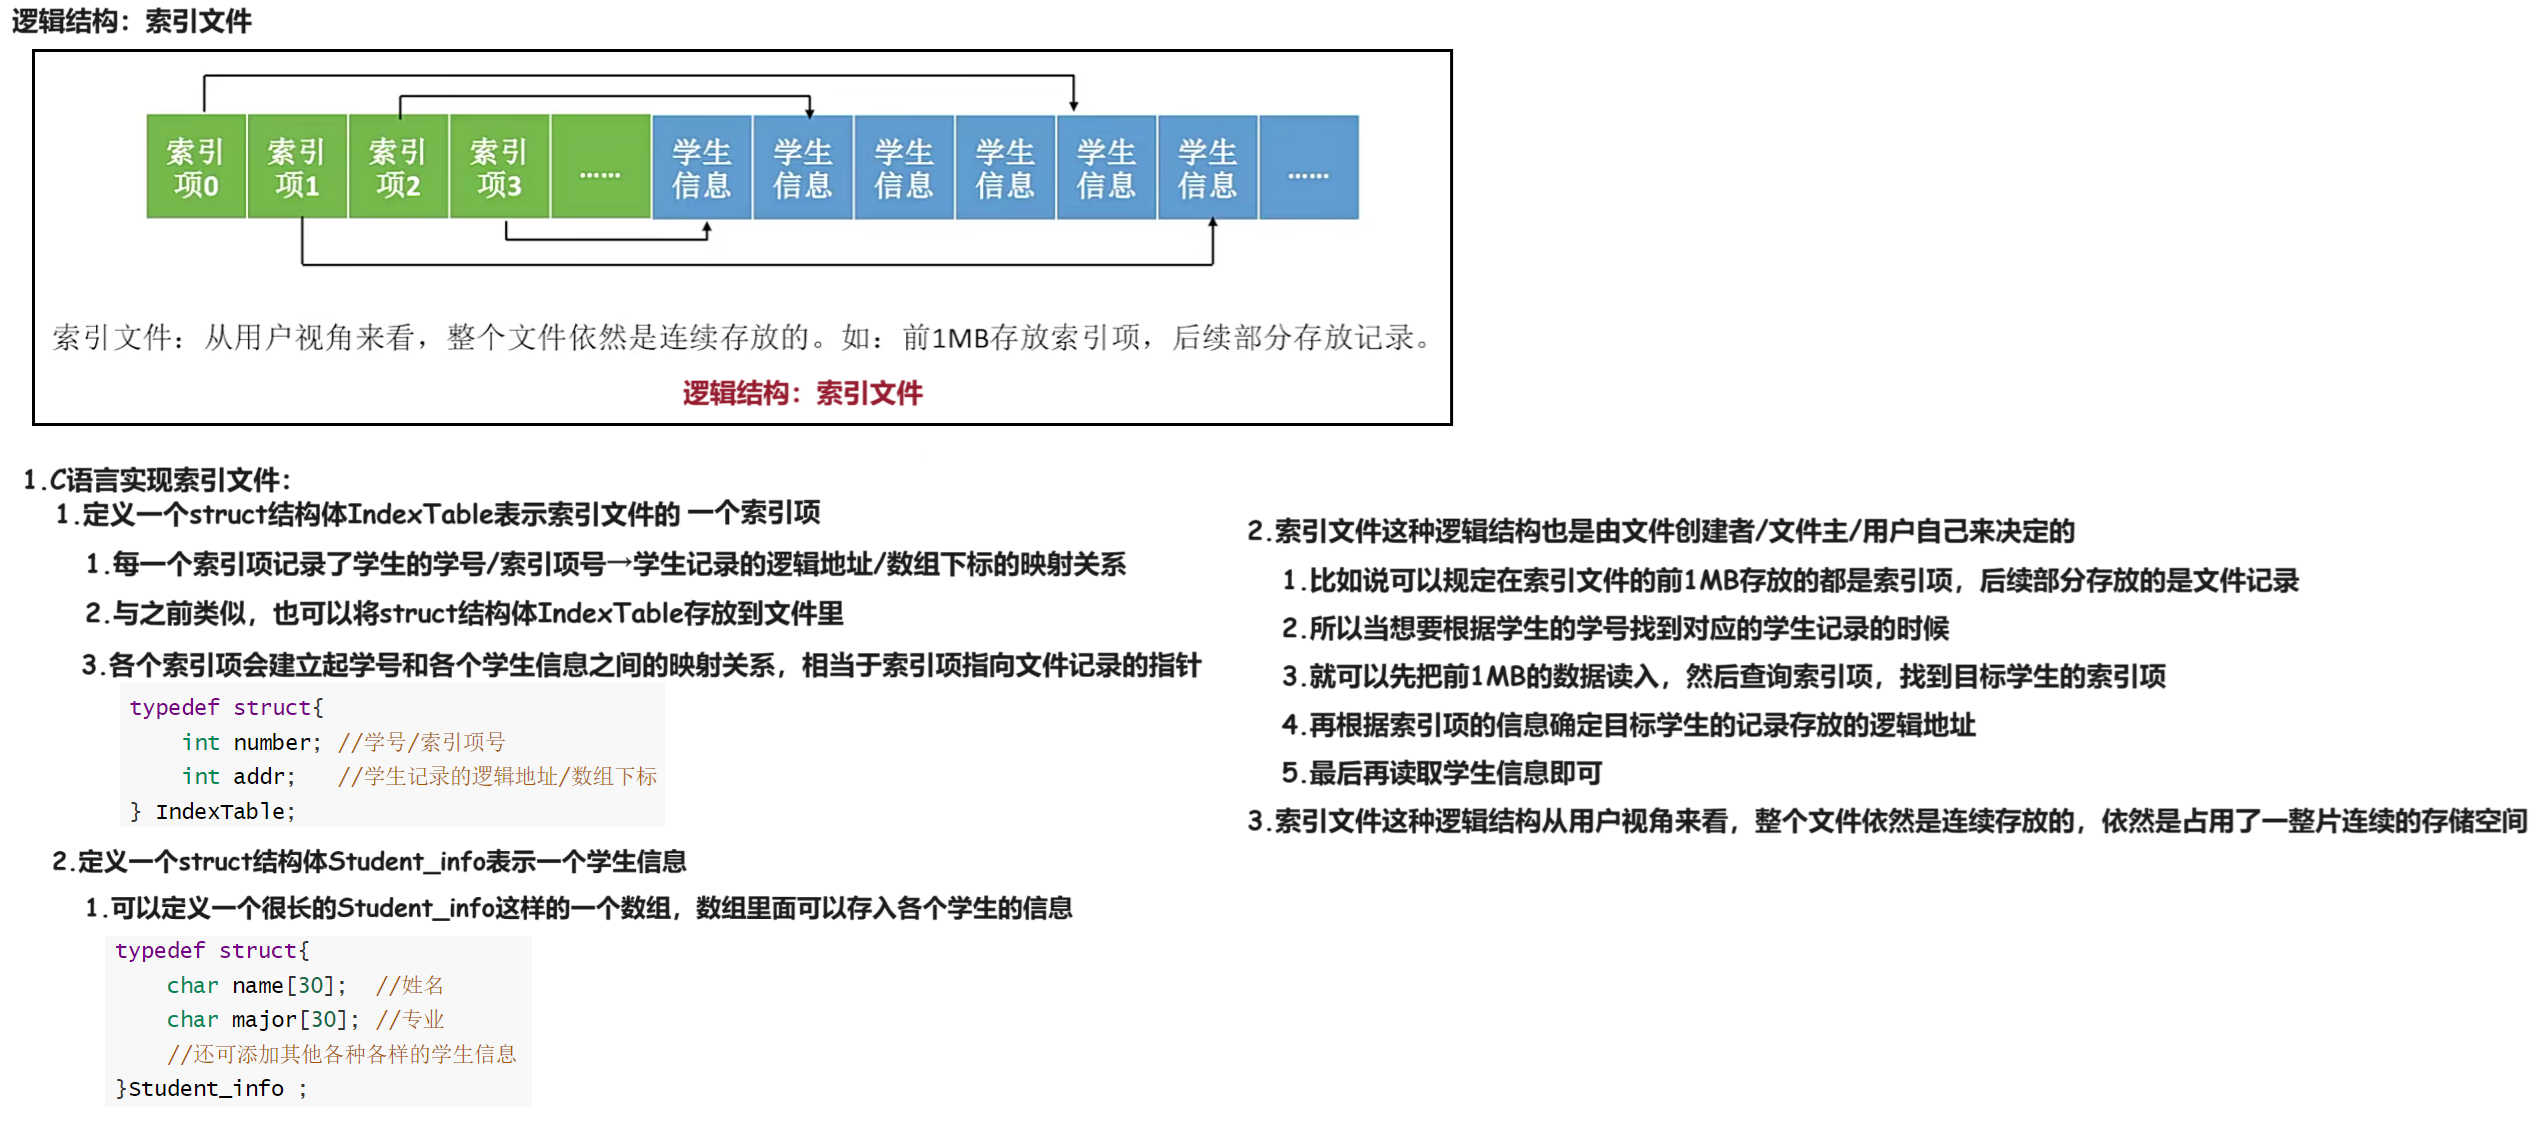
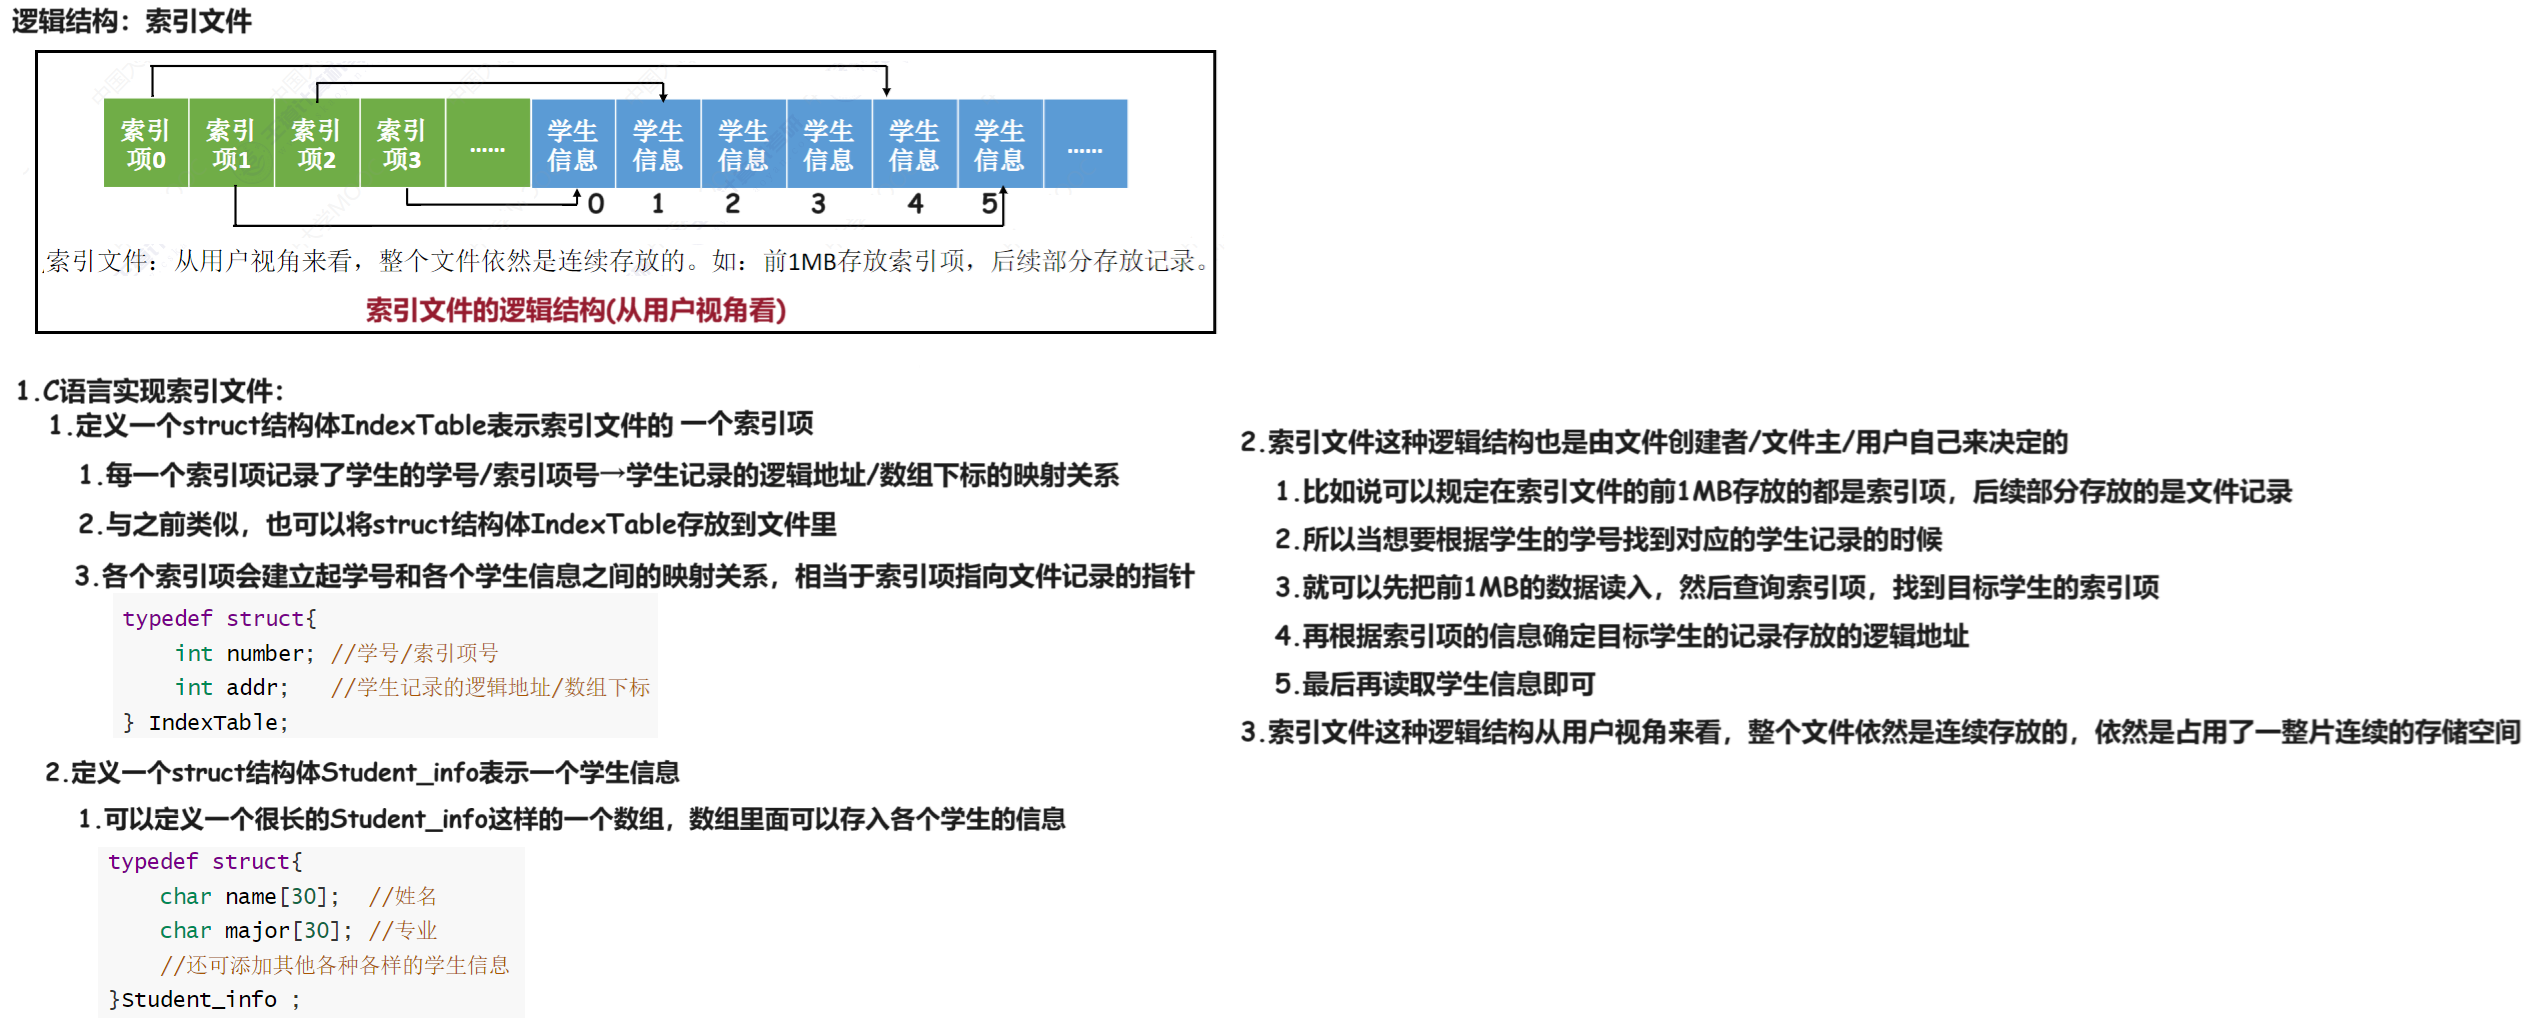
240216

Changed region(s): [[0.0, 0.0, 0.9961, 0.999]]

diff --git a/02 OS知识点/02 文件系统大题/02 基础视频 逻辑结构VS物理结构/02 Doc.md b/02 OS知识点/02 文件系统大题/02 基础视频 逻辑结构VS物理结构/02 Doc.md
@@ -62,12 +62,10 @@
 
 ## 08 索引文件采用索引分配
 
-
-
-
+<img src="https://cvp.oss-cn-shanghai.aliyuncs.com/picgo/202402160948807.png" alt="image-20240216094852596" style="zoom:50%;" />
 
 
 
 ## 09 索引文件VS顺序文件
 
-<img src="https://cvp.oss-cn-shanghai.aliyuncs.com/picgo/202402151756147.png" alt="image-20240215175613748" style="zoom:50%;" />
+<img src="https://cvp.oss-cn-shanghai.aliyuncs.com/picgo/202402160948993.png" alt="image-20240216094838629" style="zoom:50%;" />
